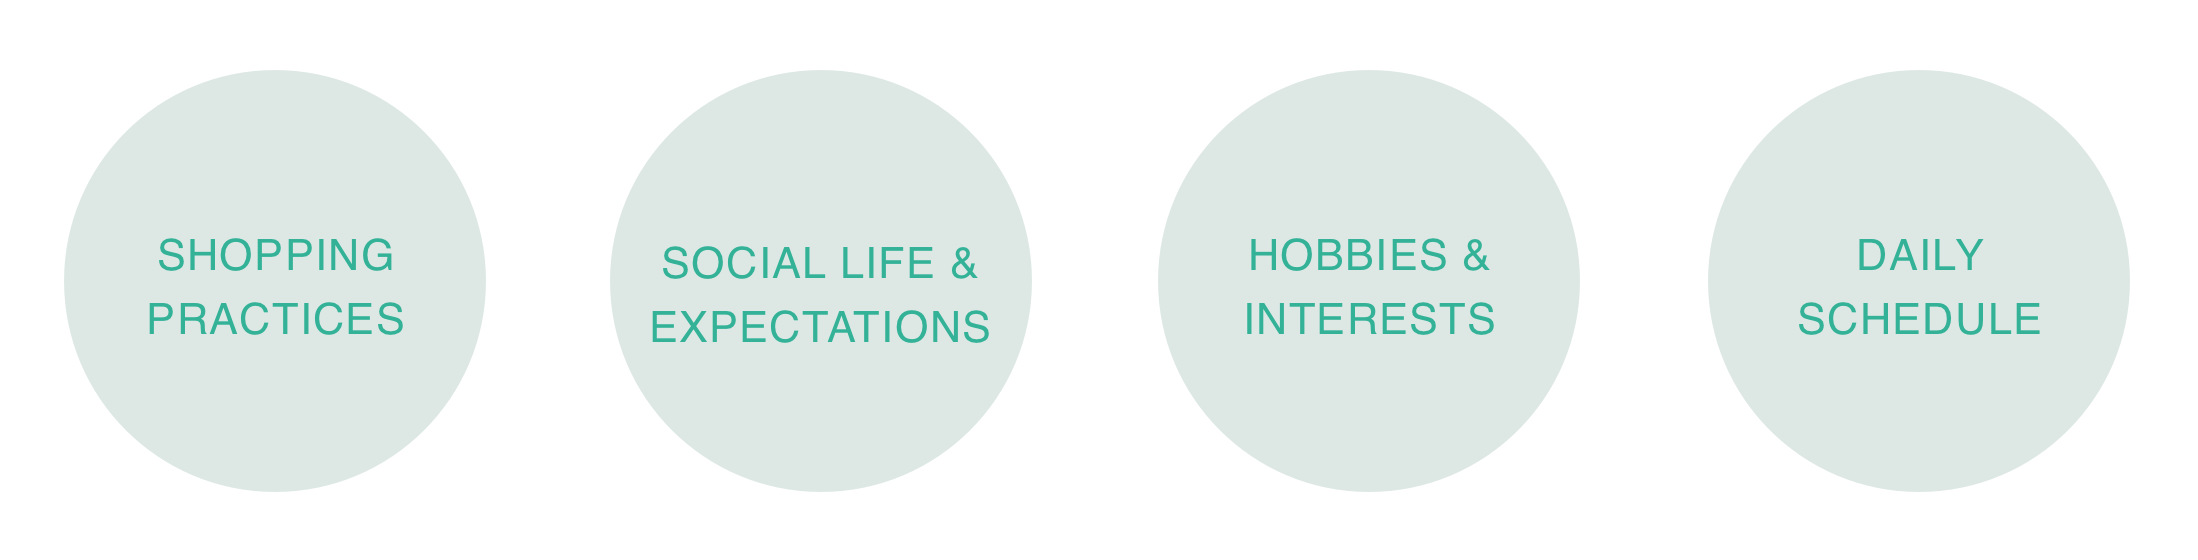
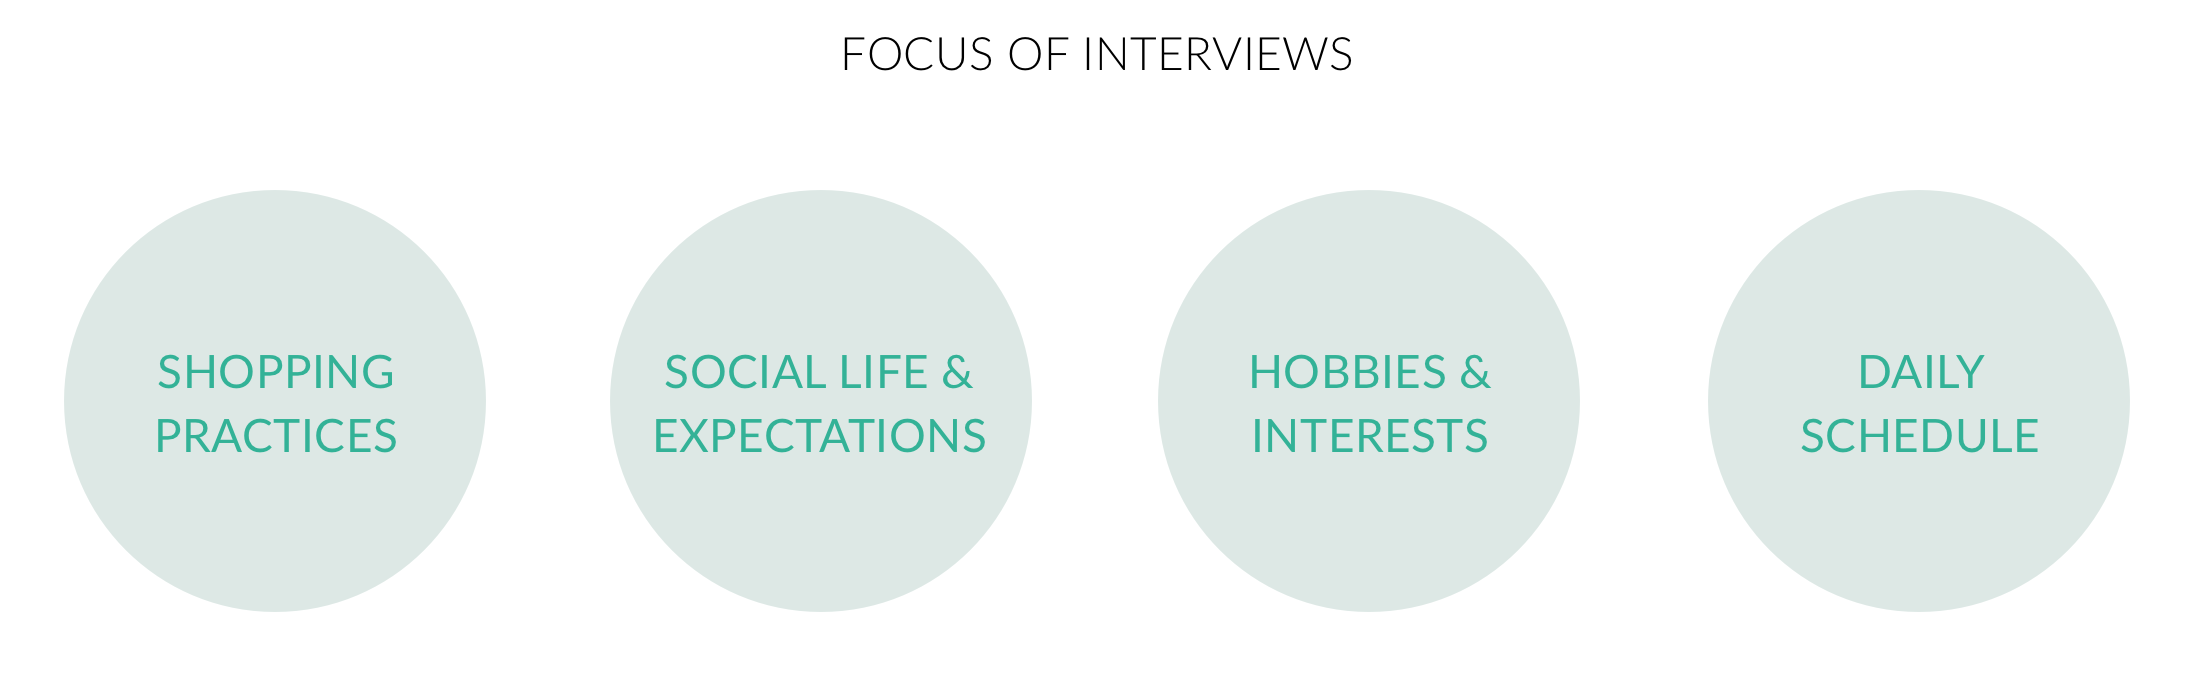
added hi-fidelity prototypes, storyboards, and changed focus of interviews of smartscheduler

diff --git a/index.html b/index.html
@@ -514,7 +514,7 @@
 
                                     <p> We conducted semi-structured interviews
                                         with 11 stay-at-home parents which helped us to identify patterns and trends among stay-at-home parents and the challenges that
-                                        they face. The interview questions focused on:</p>
+                                        they face.</p>
                             <img class="img-responsive img-centered" src="img/smartScheduler/InterviewFocus.png" alt="" width="80%">
 
                            <h4> AFFINITY ANALYSIS</h4>
@@ -636,24 +636,22 @@
                                     <img class="img-responsive img-centered" src="img/smartScheduler/Board_Game-01.jpg" alt="">
                                 </div>
                             </div>-->
-                            <h3>STORYBOARDS</h3>
-                            <div class="rows">
-                                <div class="col-lg-6 col-md-6 col-sm-6">
-                                    <img class="img-responsive img-centered" src="img/smartScheduler/ss_storyboard_TASK%201.png" alt="">
-                                </div>
-                                <div class="col-lg-6 col-md-6 col-sm-6">
-                                    <img class="img-responsive img-centered" src="img/smartScheduler/storyboard2-BG.png">
-                                    <br><br>
-                                </div>
-                            </div>
-
-                            <h3>NEXT STEPS</h3>
+                            <h3>USER FEEDBACK</h3>
                             <p>Using the storyboards and wireframes we developed for each design alternative, we conducted a second round of semi-structured
                                 interviews with 3 stay-at-home parents to determine which concept fulfilled the most urgent need in their lives and how they
                                 would change each design. The results were unanimous — every stay-at-home parent preferred the Smart Scheduler.
-                                We are currently making Hi-fidelity prototypes of the Smart Scheduler Interface.
                             </p>
-                             <button type="button" class="btn btn-primary" data-dismiss="modal"><i class="fa fa-times"></i> Close Project</button>
+
+                            <h3>STORYBOARDS</h3>
+                            <img class="img-responsive img-centered" src="img/smartScheduler/labeled_storyboard1_horizontal.png" style="padding-left: 5px;padding-right: 5px;">
+                            <img class="img-responsive img-centered" src="img/smartScheduler/labeled_storyboard%202%20horizontal.png" style="padding-left: 5px;padding-right: 5px;">
+                            <img class="img-responsive img-centered" src="img/smartScheduler/labeled_storyboard3_horizontal.png" style="padding-left: 5px;padding-right: 5px;">
+
+                            <h3>HI-FIDELITY PROTOTYPE</h3>
+                            <img class="img-responsive img-centered" src="img/smartScheduler/labeledMainScreen.png" style="padding-left: 0px;padding-right: 0px;">
+                            <img class="img-responsive img-centered" src="img/smartScheduler/labeled_Expanded_footer.png" width="75%" style="padding-left: 40px;">
+
+                            <button type="button" class="btn btn-primary" data-dismiss="modal"><i class="fa fa-times"></i> Close Project</button>
                         </div>
                     </div>
                 </div>
